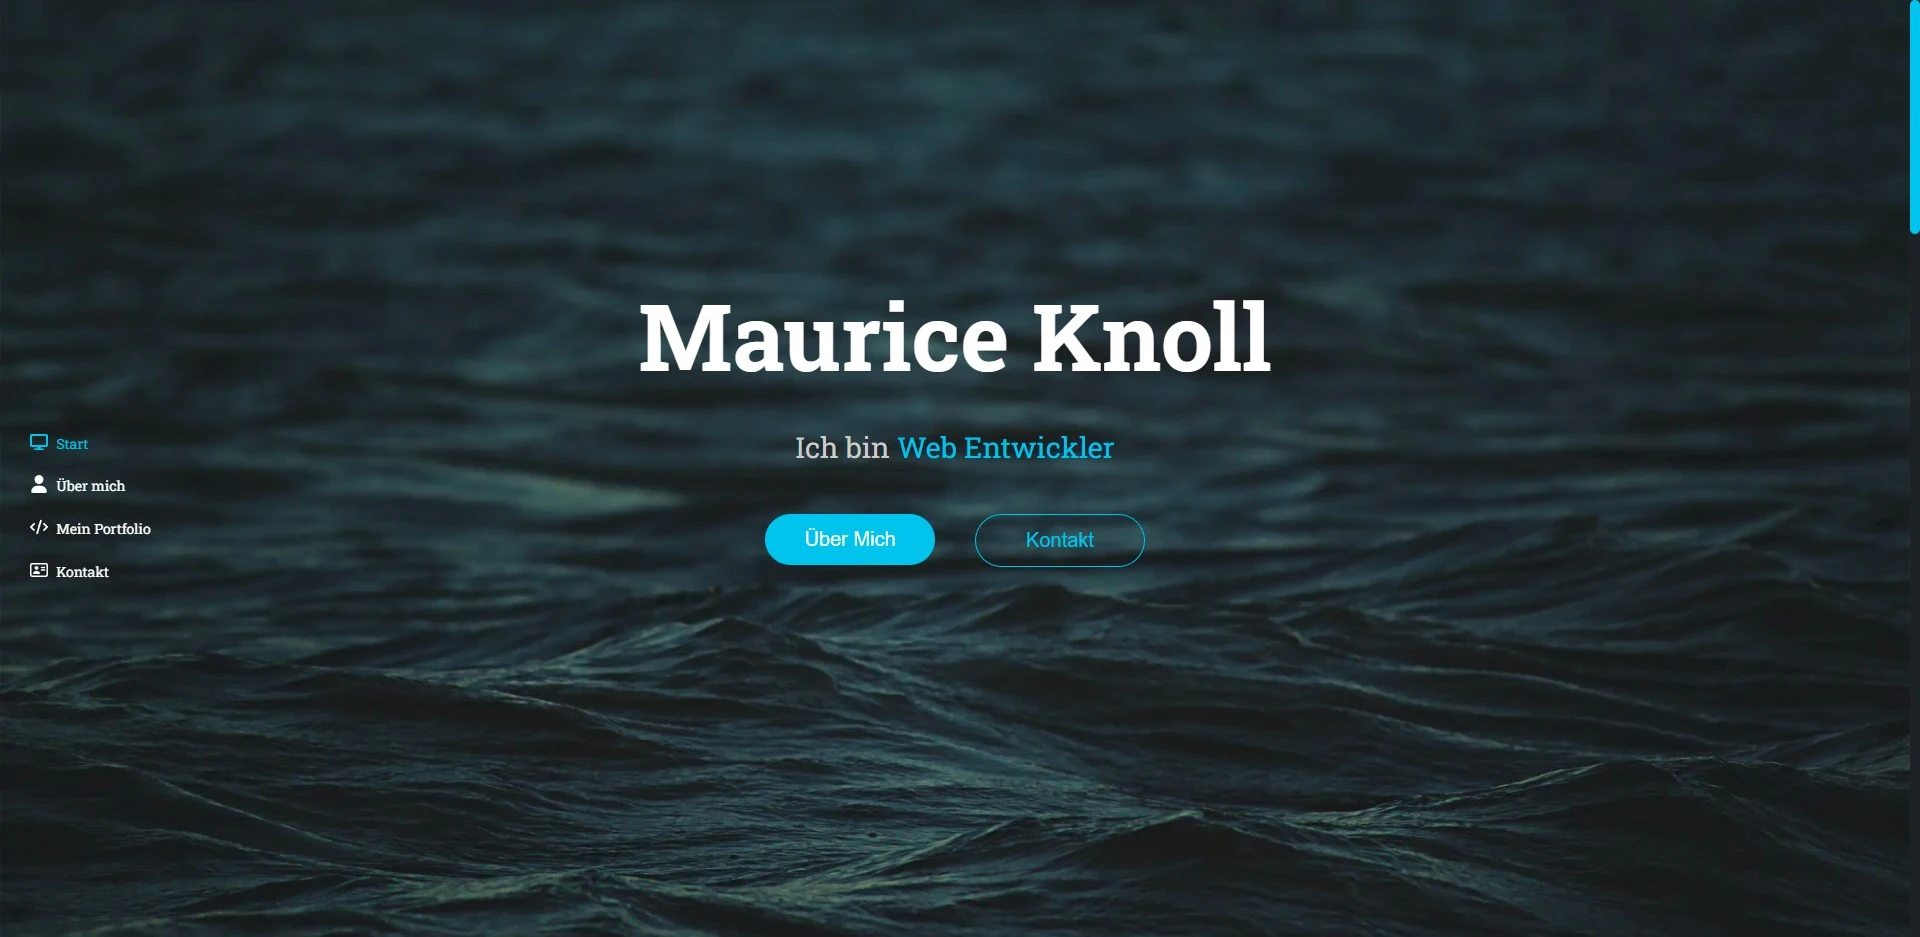
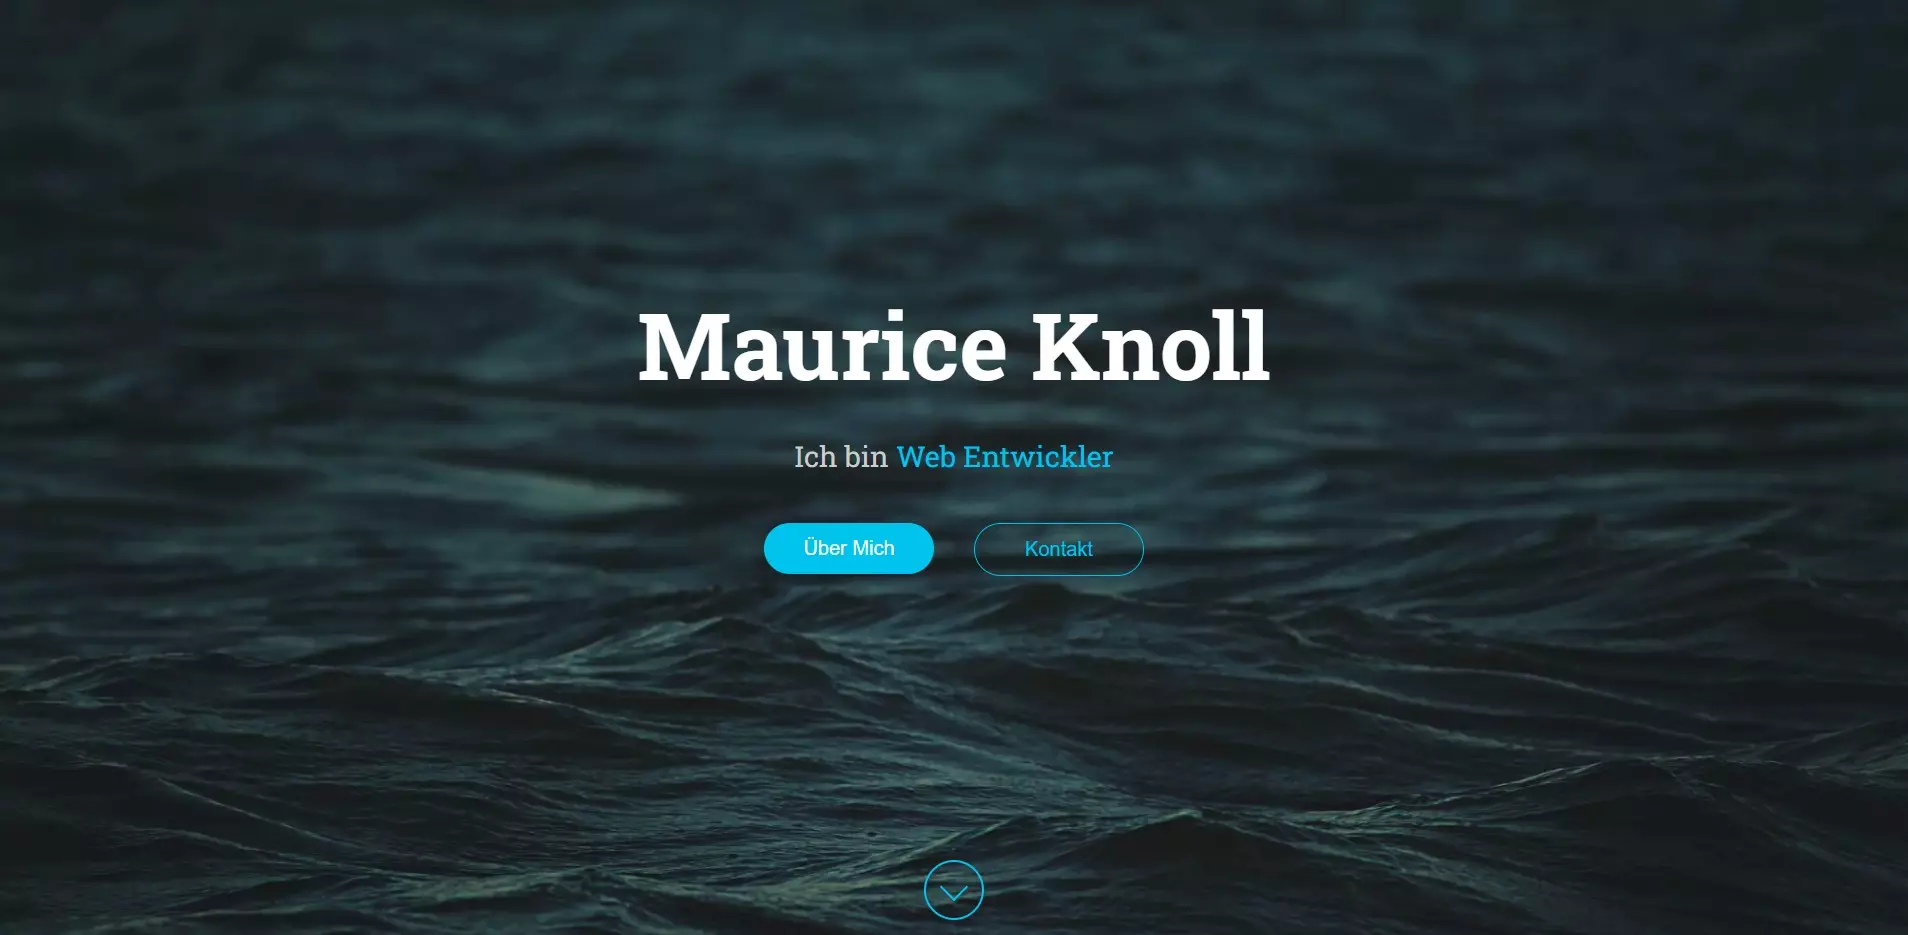
[update] changed nav to button - netlify

diff --git a/components/sections/Hero.vue b/components/sections/Hero.vue
@@ -1,15 +1,23 @@
 <template>
   <section id="hero" class="hero-section">
     <div class="heading-container">
-      <h1 class="heading">Maurice Knoll</h1>
-      <h2 class="sub-heading">Ich bin <span>Web Entwickler</span></h2>
+      <div class="headings">
+        <h1 class="heading">Maurice Knoll</h1>
+        <h2 class="sub-heading">Ich bin <span>Web Entwickler</span></h2>
 
-      <div class="hero-buttons">
+        <div class="hero-buttons">
+          <a href="#about">
+            <Button> Über Mich </Button>
+          </a>
+          <a href="#contact">
+            <Button :class="'btn-outline'"> Kontakt </Button>
+          </a>
+        </div>
+      </div>
+
+      <div class="scrollDownContainer">
         <a href="#about">
-          <Button> Über Mich </Button>
-        </a>
-        <a href="#contact">
-          <Button :class="'btn-outline'"> Kontakt </Button>
+          <ScrolDownButton class="scrollDownButton" />
         </a>
       </div>
     </div>
@@ -31,10 +39,23 @@
   height: 100%;
   display: flex;
   flex-direction: column;
+  align-items: center;
+
+  & > :first-child {
+    flex-grow: 1;
+  }
+
+  & > :last-child {
+    margin-bottom: 1rem;
+  }
+}
+
+.headings {
+  display: flex;
+  flex-direction: column;
   justify-content: center;
   align-items: center;
 }
-
 .heading {
   font-size: calc(3rem + 1.5vw);
   font-weight: bold;
@@ -55,7 +76,6 @@
 
 .hero-buttons {
   width: 300px;
-  margin-bottom: 6rem;
   display: flex;
   justify-content: space-around;
 }

diff --git a/components/ScrolDownButton.vue b/components/ScrolDownButton.vue
@@ -1,0 +1,54 @@
+<template>
+  <div class="scroll"></div>
+</template>
+
+<script setup lang="ts"></script>
+
+<style lang="scss" scoped>
+.scroll {
+  width: 60px;
+  height: 60px;
+  border: 2px solid $color_main;
+  border-radius: 50%;
+  position: relative;
+  animation: down 1.5s infinite;
+  -webkit-animation: down 1.5s infinite;
+  cursor: pointer;
+
+  &::before {
+    content: '';
+    position: absolute;
+    top: 15px;
+    left: 18px;
+    width: 18px;
+    height: 18px;
+    border-left: 2px solid $color_main;
+    border-bottom: 2px solid $color_main;
+    transform: rotate(-45deg);
+  }
+}
+
+@keyframes down {
+  0% {
+    transform: translate(0);
+  }
+  20% {
+    transform: translateY(15px);
+  }
+  40% {
+    transform: translate(0);
+  }
+}
+
+@-webkit-keyframes down {
+  0% {
+    transform: translate(0);
+  }
+  20% {
+    transform: translateY(15px);
+  }
+  40% {
+    transform: translate(0);
+  }
+}
+</style>

diff --git a/app.vue b/app.vue
@@ -1,6 +1,6 @@
 <template>
   <header ref="header">
-    <TheNavigation />
+    <TheNavigation v-if="renderNav" />
   </header>
   <main ref="root">
     <SectionsHero />
@@ -12,6 +12,8 @@
 
 <script setup lang="ts">
 import {ref, onMounted} from 'vue'
+
+const renderNav = ref(false)
 
 // smooth scroll on click at Nav Link
 const root = ref(null)

diff --git a/nuxt.config.ts b/nuxt.config.ts
@@ -2,8 +2,8 @@ import { defineNuxtConfig } from 'nuxt'
 
 // https://v3.nuxtjs.org/api/configuration/nuxt.config
 export default defineNuxtConfig({
-  router: {
-    base: '/Portfolio/'
+  nitro: {
+    preset: 'Netlify'
   },
   css: [
     '@fortawesome/fontawesome-svg-core/styles.css'
